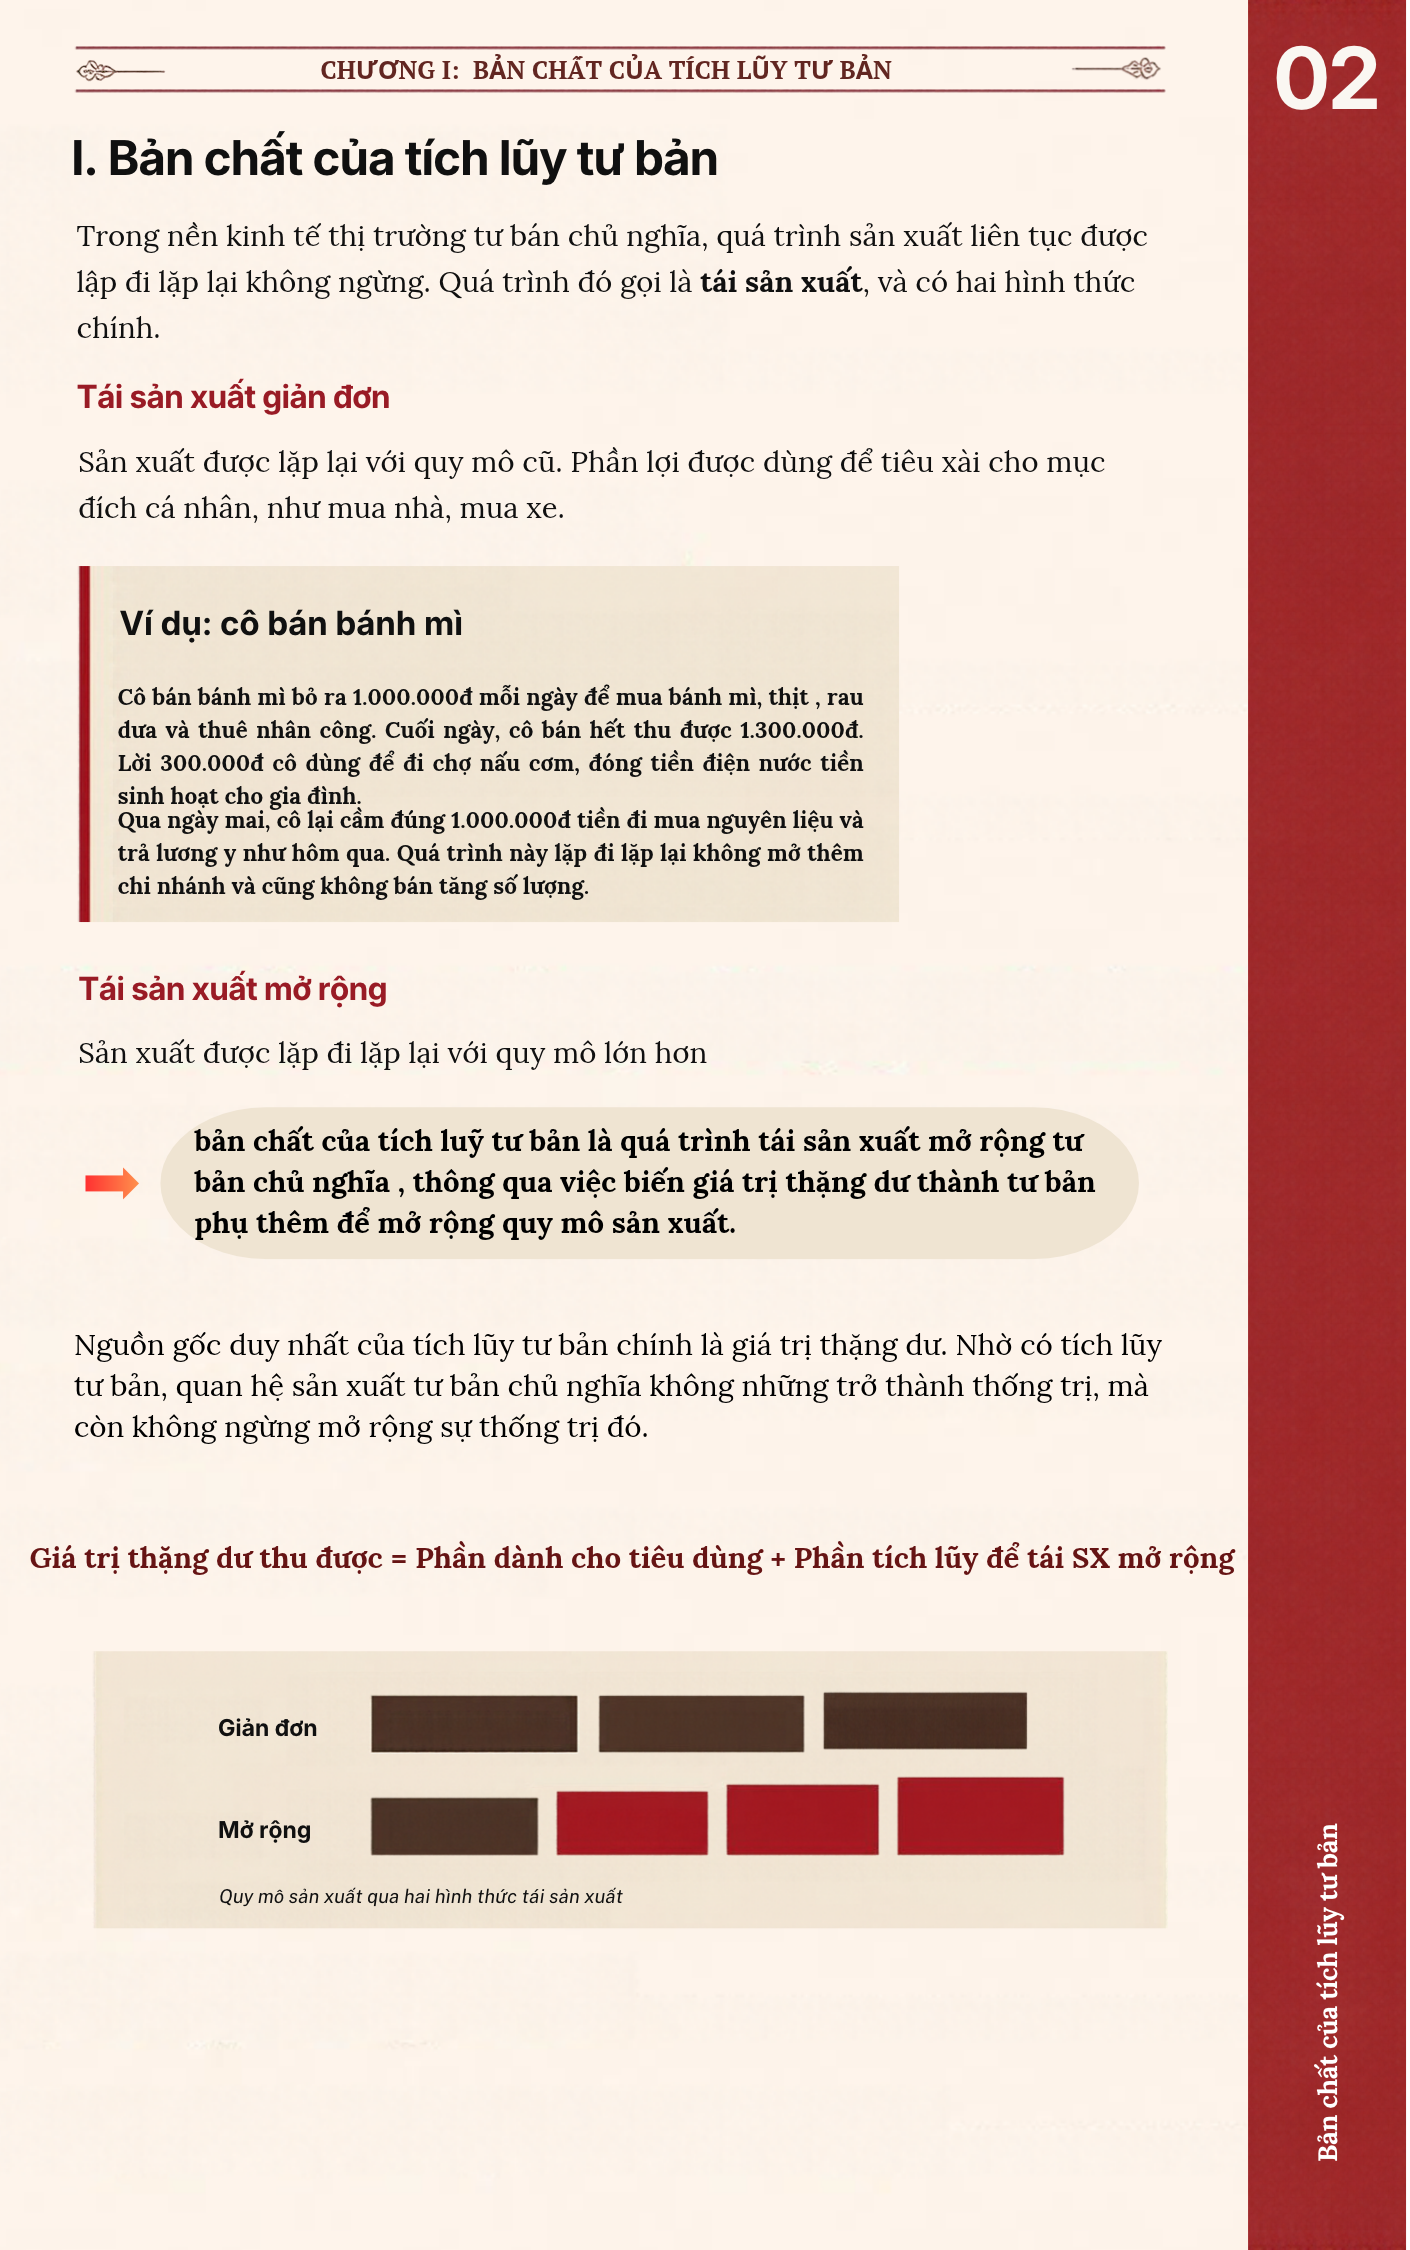
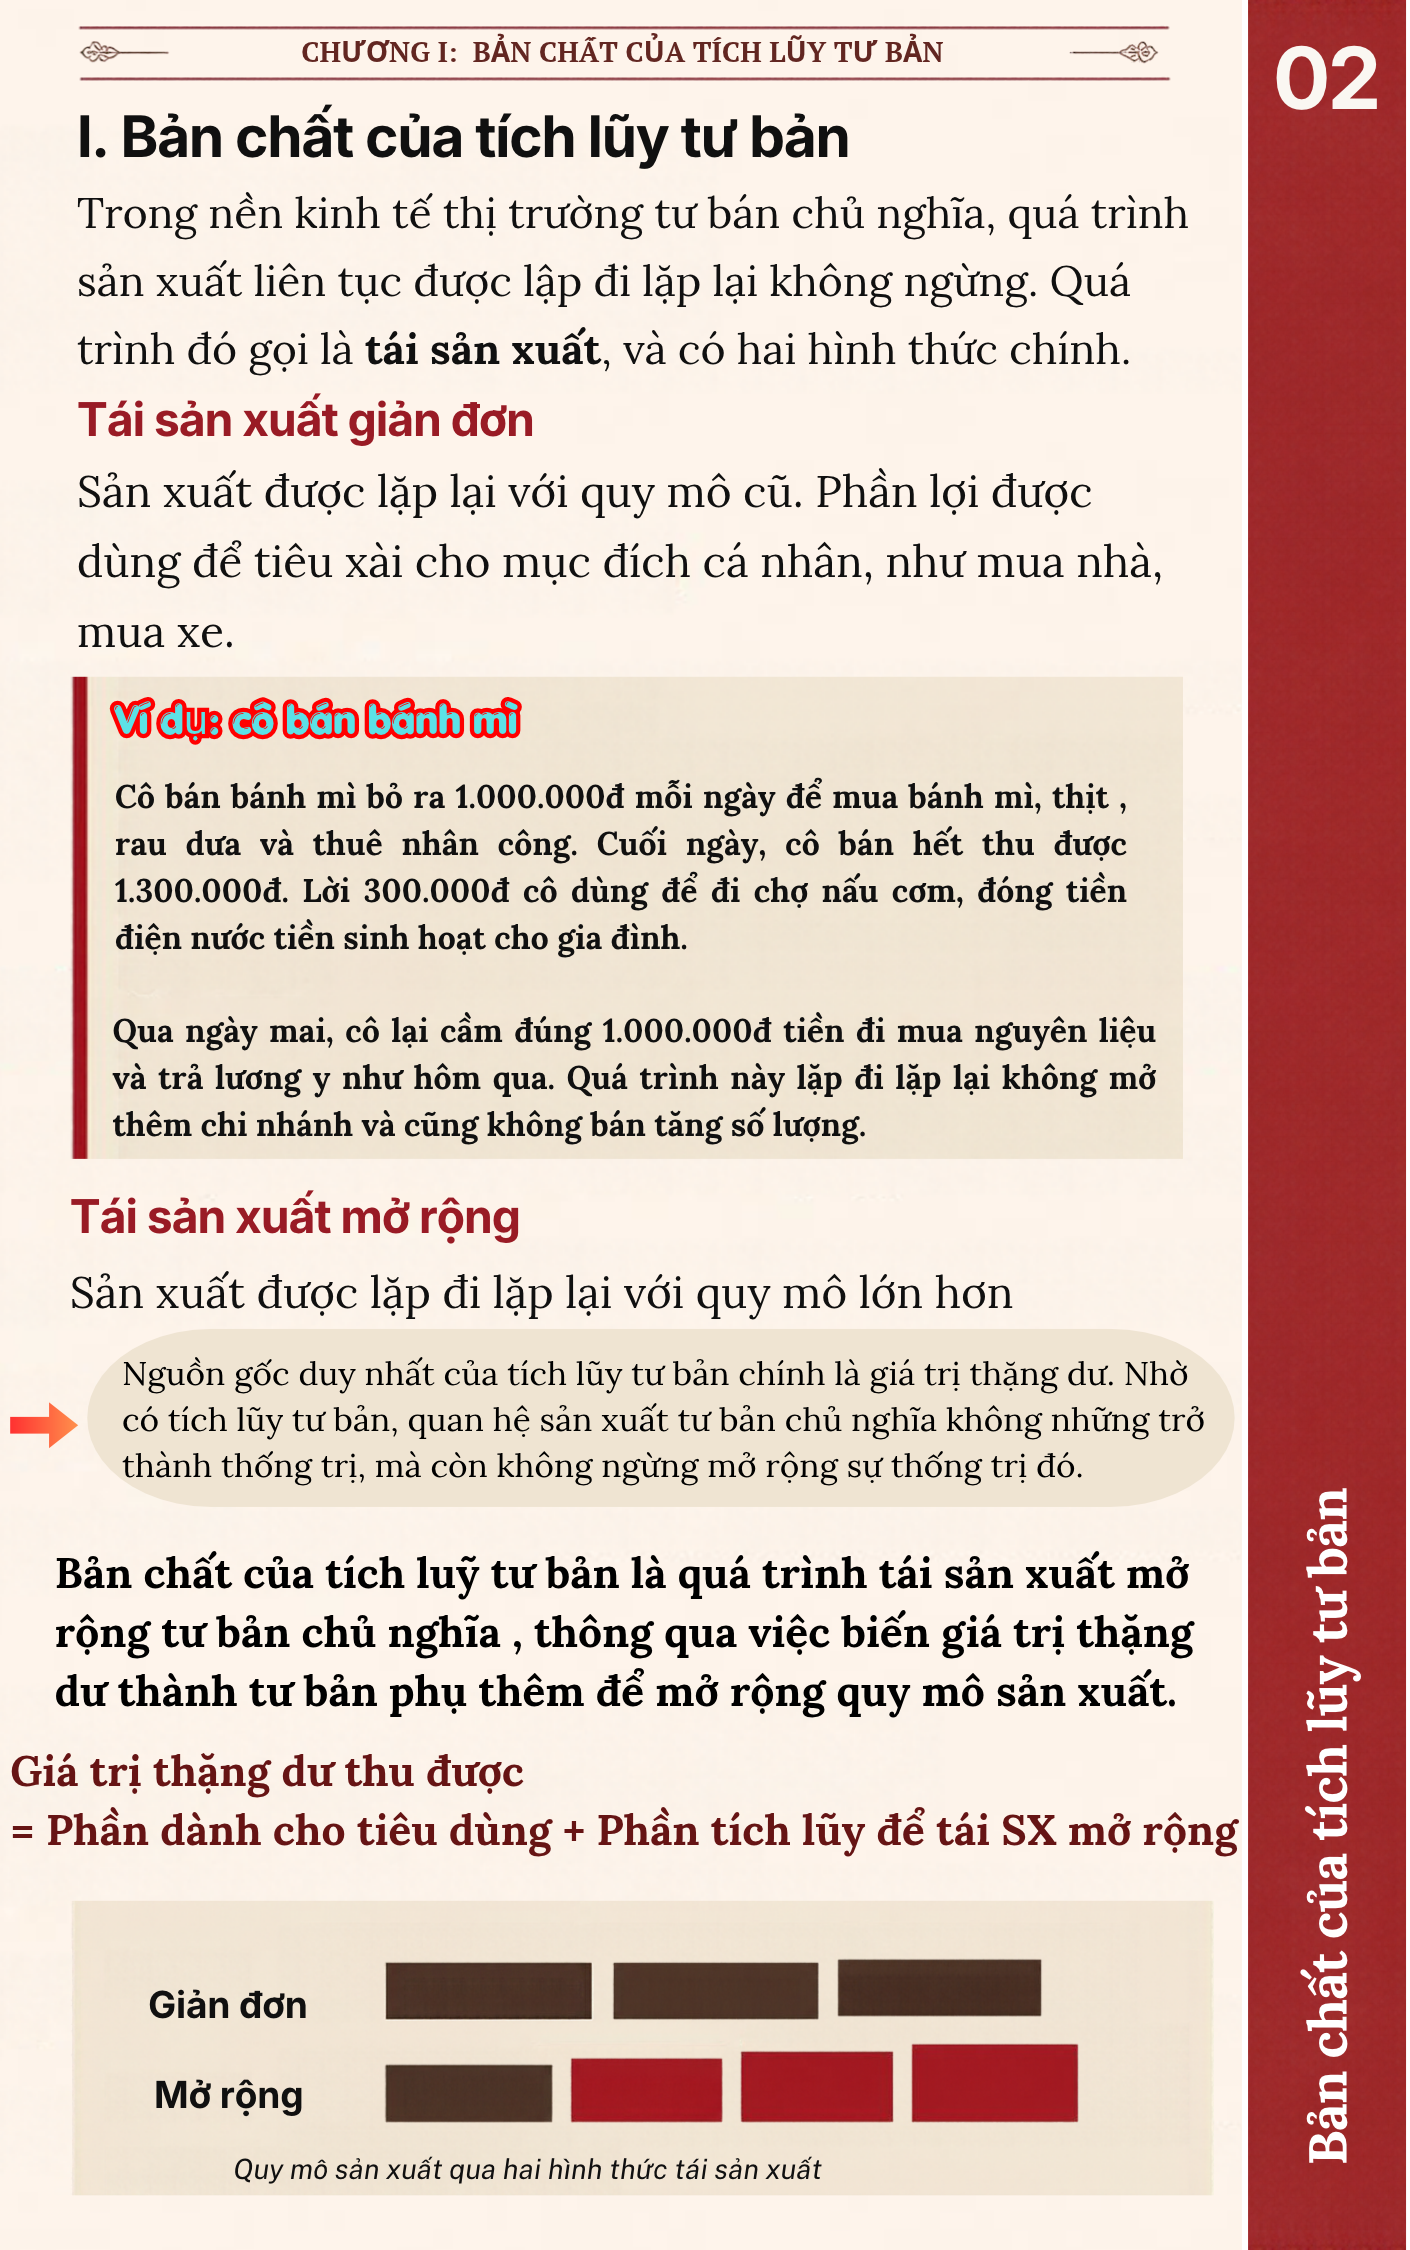
2.4

diff --git a/index.html b/index.html
@@ -56,47 +56,17 @@
         <div id="p5" class="paper">
             <div class="front">
                 <div id="f5" class="front-content">
-                    <h1>3. Một số hệ quả của tích lũy tư bản.</h1>
-                    <p>Làm tăng cấu tạo hữu cơ của tư bản:</p>
-                    <p>Cấu tạo hữu cơ là cấu tạo giá trị do cấu tạo kỹ thuật quyết định và phản ánh sự thay đổi của cấu tạo kỹ thuật.</p>
-                    <p>Tác dụng:</p> 
-                    <ul>
-                        <li>+ Tăng năng suất lao động xã hội.</li> 
-                        <li>+ Tiến bộ khoa học kỹ thuật.</li>
-                    <p>Hệ quả:</p> 
-                    <p>-  thất nghiệp do bị máy móc thay thế.</p>
-                    </ul>
-                    <p>Tăng tích tụ và tập trung tư bản:</p>
-                    <ul>
-                        <li>Tích tụ tư bản làm cho tư bản cá biệt tăng lên và quy mô tư bản xã hội cũng tăng theo.</li>
-                        <li>Tập trung tư bản làm cho tư bản cá biệt tăng quy mô và quy mô của tư bản xã hội vẫn như cũ.</li>
-                    </ul>
+             
                 </div>
             </div>
             <div class="back">
                 <div id="b5" class="back-content">
-                                                           <h1>a. Nâng cao trình độ khai thác sức lao động:</h1>
-                    <h2>  - Khái niệm:</h2>
-                    <p>     Trình độ khai thác sức lao động (hay trình độ bóc lột sức lao động) là mức độ mà nhà tư bản vắt cạn kiệt sức lao động của công nhân để thu về giá trị thặng dư.</p>
-                    <h3>  - Các phương pháp áp dụng của nhà tư bản:</h3>
-                    <ul>
-                        <li>+ Phương pháp sản xuất giá trị thặng dư tương đối và sản xuất giá trị thặng dư tuyệt đối.</li>
-                        <li>+ Các biện pháp bổ sung như cắt giảm tiền công của người lao động, kéo dài thời gian làm việc (tăng ca không lương) hoặc tăng cường độ lao động.</li>
-                    </ul>
+                     
                 </div>
             </div>
             <div class="back">
                 <div id="b2" class="back-content">
-                    <h1>b. Năng suất lao động xã hội:</h1>
-                    <h2>Khái niệm:</h2>
-                    <p>Năng suất lao động là năng lực sản xuất của người lao động, được tính bằng số lượng sản phẩm sản xuất ra trong một đơn vị thời gian, hoặc bằng số lượng thời gian hao phí để sản xuất ra một đơn vị sản phẩm.</p>
-                    <p>Các nhân tố ảnh hưởng đến năng suất lao động:</p>
-                    <ul>
-                        <li>+ Trình độ khéo léo trung bình của người lao động.</li>
-                        <li>+ Mức độ phát triển của khoa học và trình độ áp dụng khoa học vào quy trình công nghệ.</li>
-                        <li>+ Sự kết hợp xã hội của quá trình sản xuất.</li>
-                        <li>+ Quy mô và hiệu suất của tư liệu sản xuất.</li>
-                        <li>+ Các điều kiện tự nhiên.</li>
+                
                 </div>
             </div>
         </div>

diff --git a/style.css b/style.css
@@ -247,3 +247,8 @@ body {
 @media (max-width: 768px) {
     /* CSS dành riêng cho điện thoại */
 }
+
+img {
+    max-width: 100%;
+    height: auto;
+}
